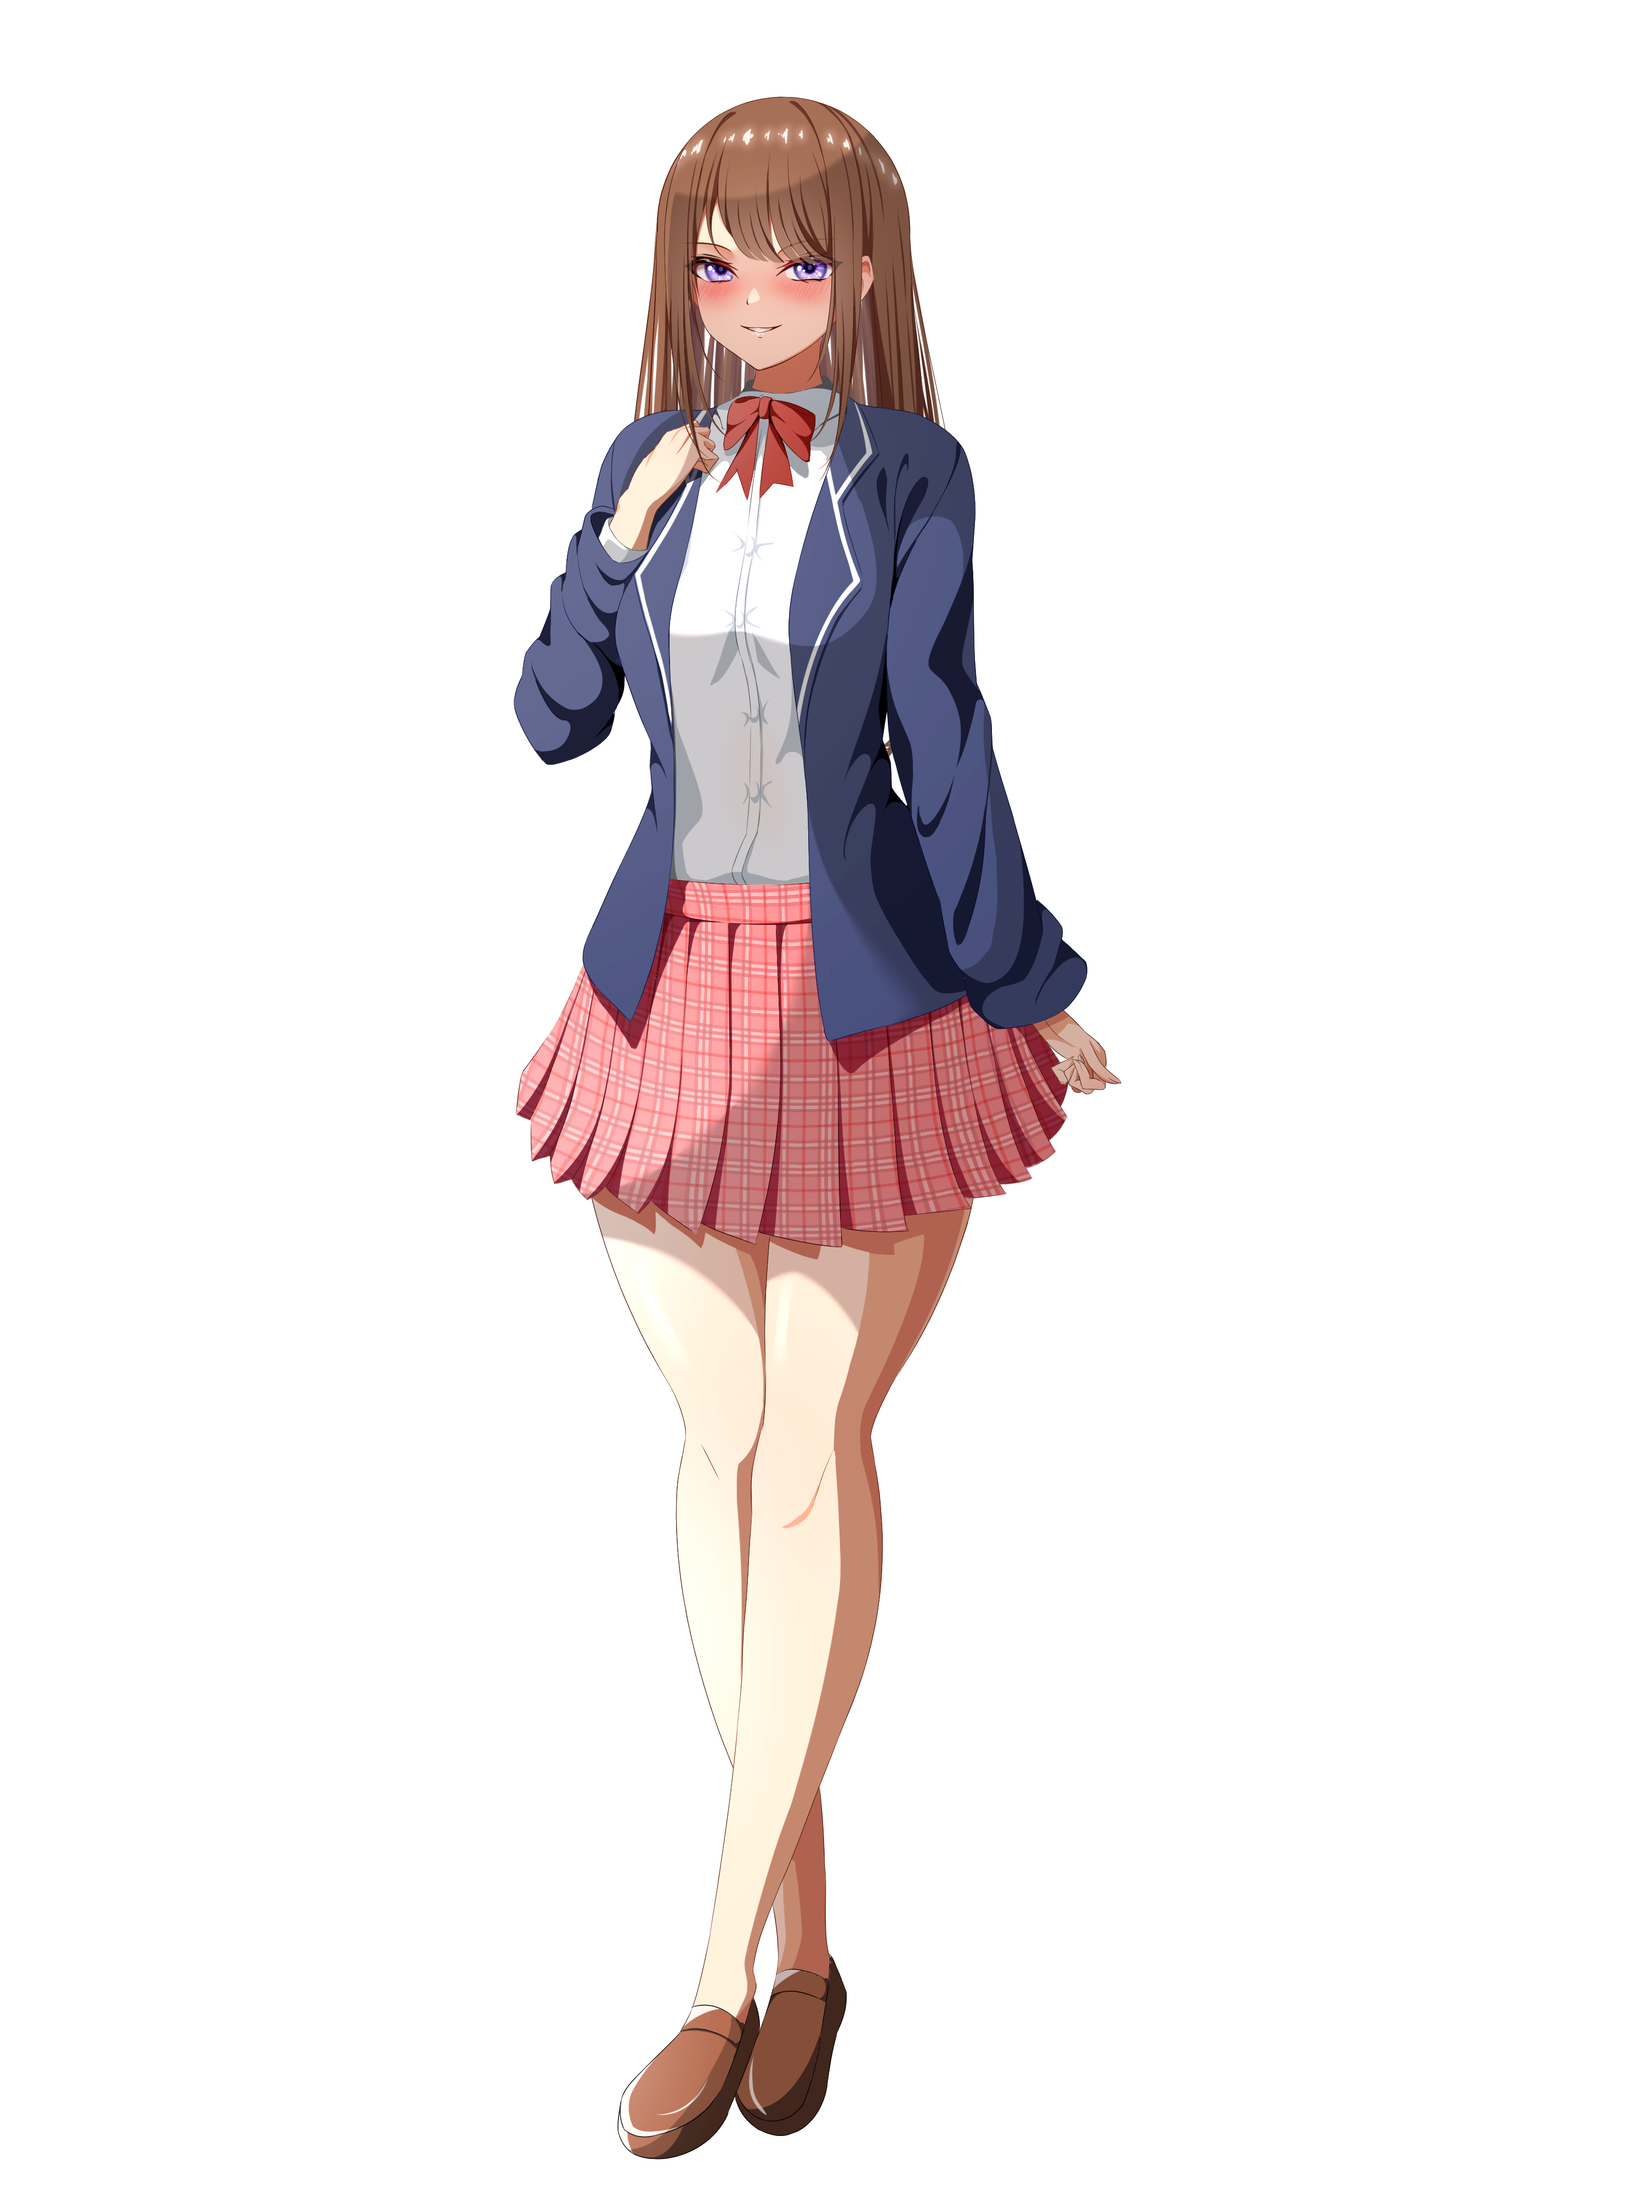
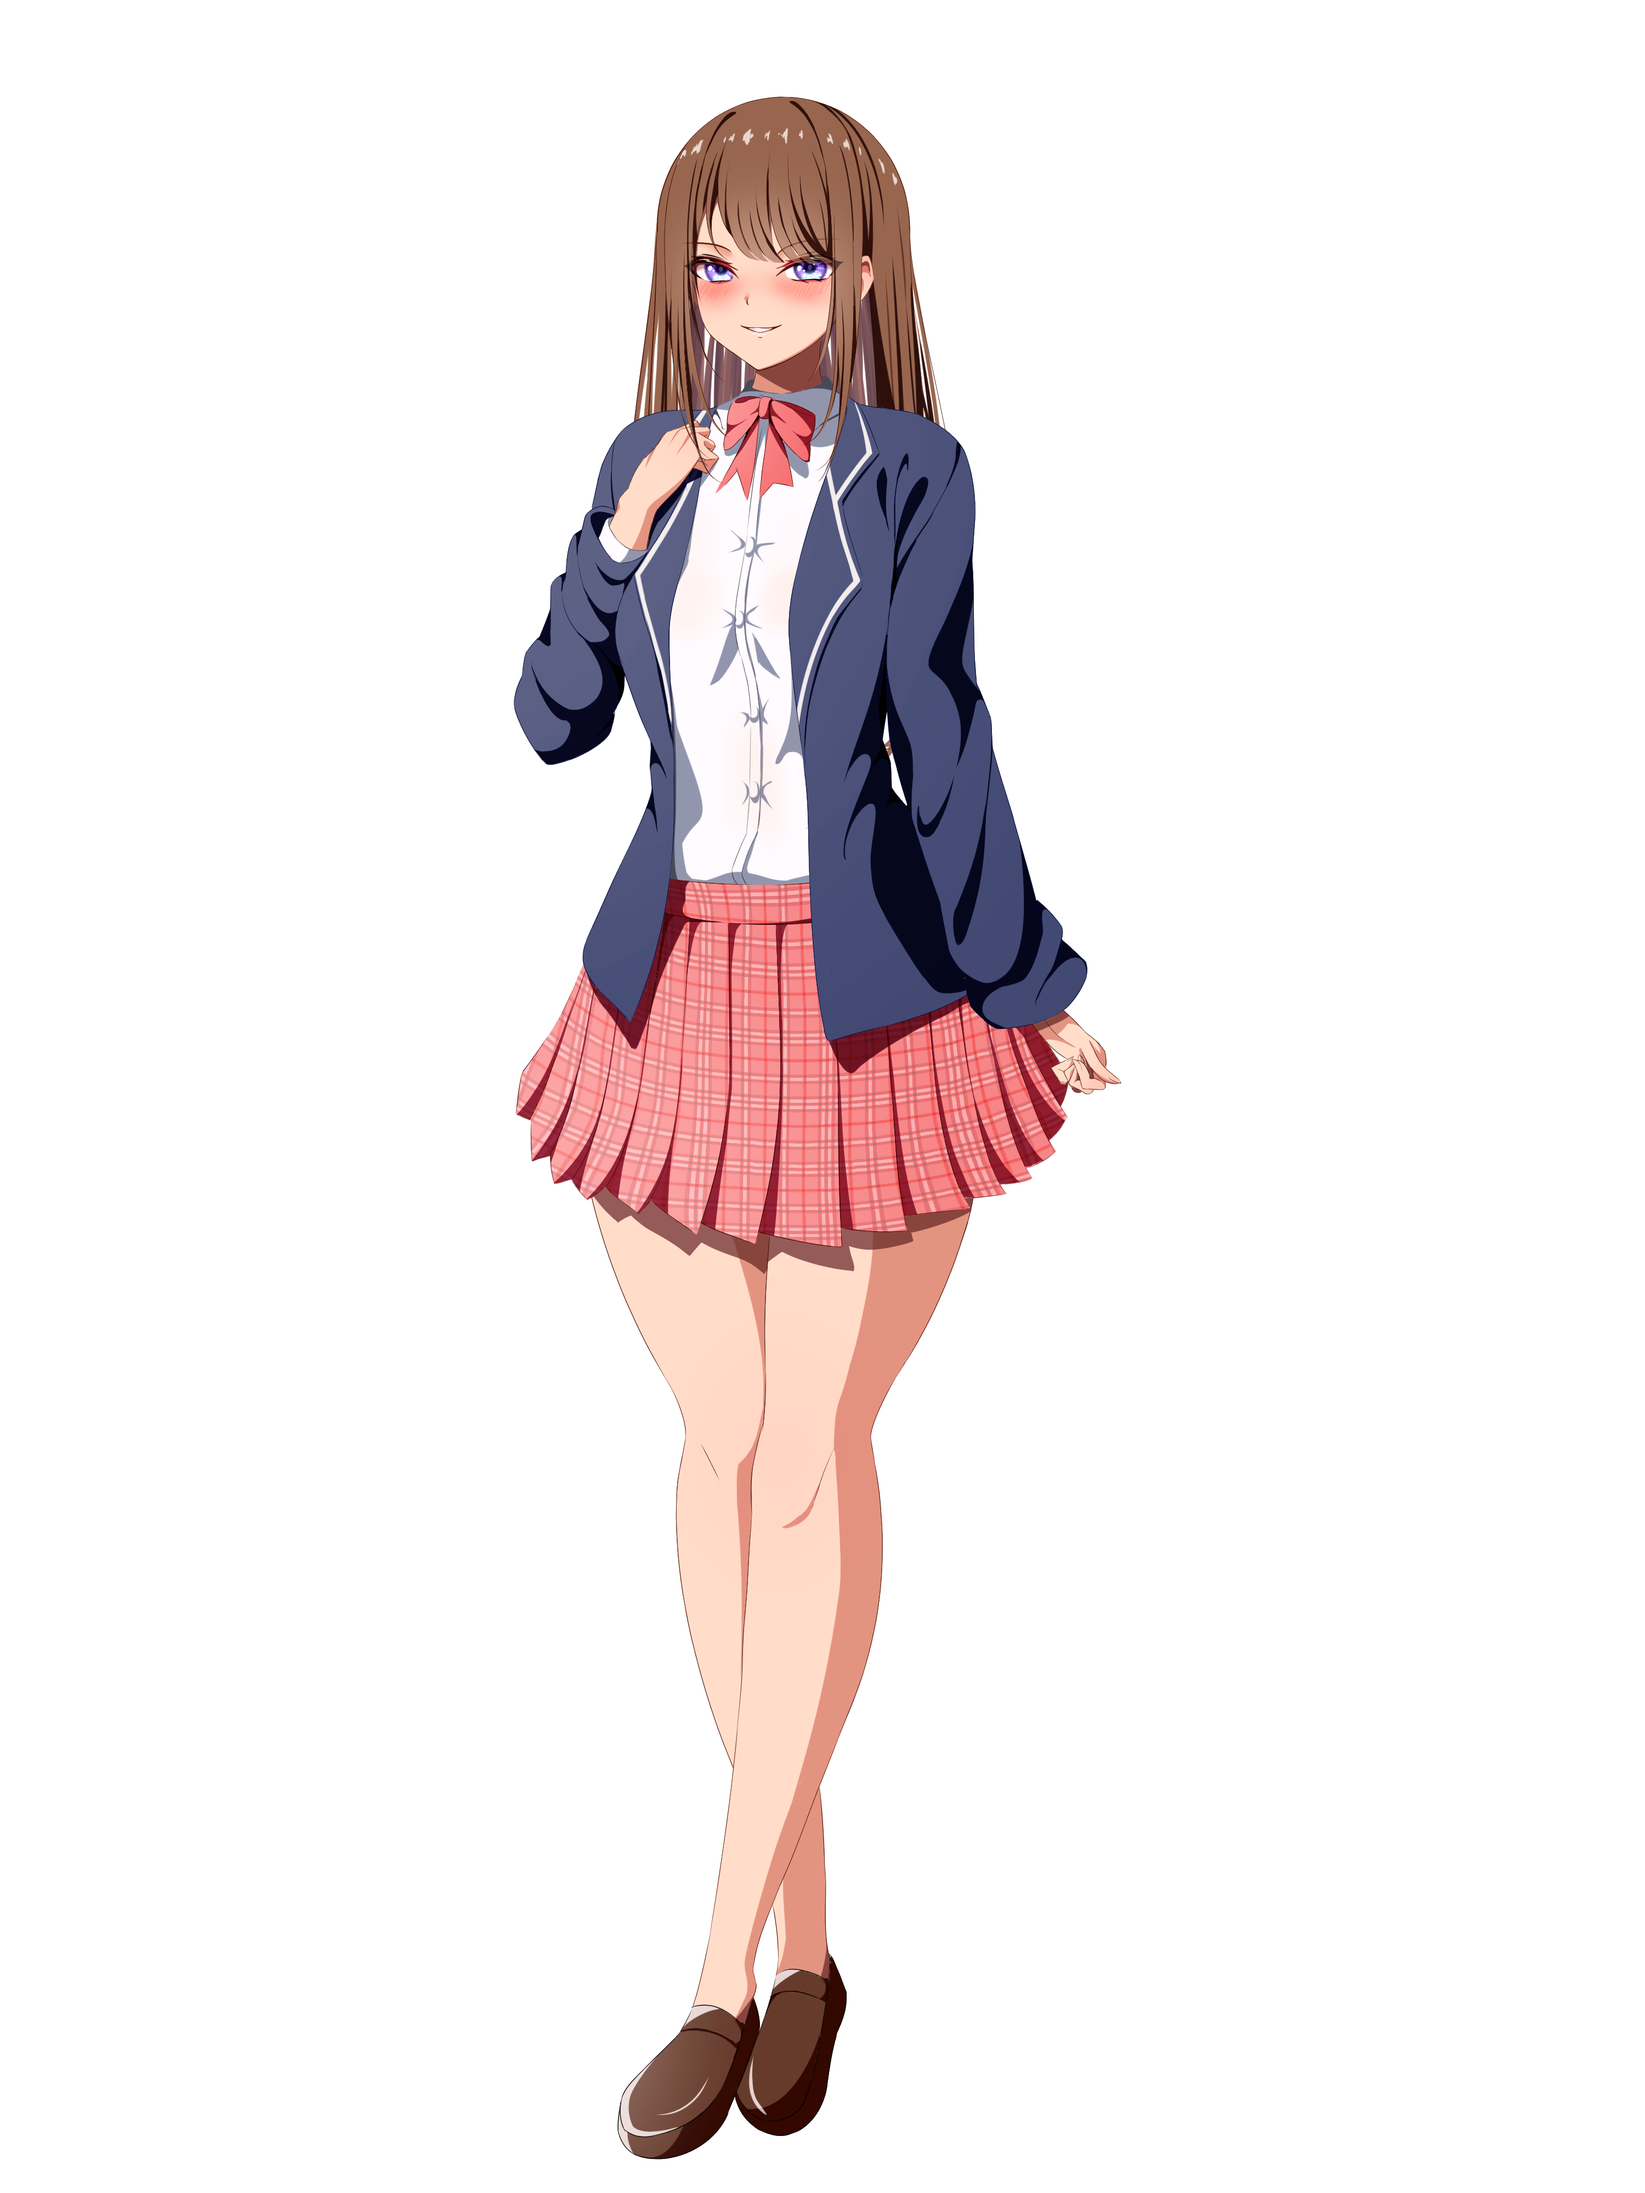
ビジュアル更新

diff --git a/src/components/manager.tsx b/src/components/manager.tsx
@@ -7,6 +7,8 @@ import Dialogue from "../components/dialogue";
 import chara1_normal from '/public/chara/chara1-normal.png';
 import chara1_evilsmile from '/public/chara/chara1-evilsmile.png';
 import chara1_smile from '/public/chara/chara1-smile.png';
+import chara1_surprised from '/public/chara/chara1-surprised.png';
+import chara1_sad from '/public/chara/chara1-sad.png';
 
 import chara2_normal from '/public/chara/chara2-normal.png';
 
@@ -50,8 +52,8 @@ class Manager {
             // 選択肢1の分岐先
             [
                 new Dialogue("「4時間14分勉強したよ」", name, [chara1_normal], -1, class_day),
-                new Dialogue("「え、そんなに勉強したの！？」", "アナ", [chara1_normal], 0, class_day),
-                new Dialogue("「このままじゃ置いてかれちゃう、、、」", "アナ", [chara1_normal], 0, class_day),
+                new Dialogue("「え、そんなに勉強したの！？」", "アナ", [chara1_surprised], 0, class_day),
+                new Dialogue("「このままじゃ置いてかれちゃう、、、」", "アナ", [chara1_sad], 0, class_day),
                 new Dialogue("「ねえ、この後わからないとこあったら聞いてもいい？」", "アナ", [chara1_normal], 0, class_day),
                 new Dialogue("「おう、お安いご用さ！」", name, [chara1_normal], -1, class_day),
             ],
@@ -69,8 +71,8 @@ class Manager {
             // 選択肢3の分岐先
             [
                 new Dialogue("「趣味に没頭してて、勉強してないな、、」", name, [chara1_normal], -1, class_day),
-                new Dialogue("「"+name+"は音楽のミックスにはまってるんだっけ？」", "アナ", [chara1_normal], 0, class_day),
-                new Dialogue("「趣味に没頭するのはいいことだと思うけど、そろそろ勉強しはじめた方がいいんじゃない？」", "アナ", [chara1_normal], 0, class_day),
+                new Dialogue("「"+name+"は音楽のミックスにはまってるんだっけ？」", "アナ", [chara1_surprised], 0, class_day),
+                new Dialogue("「趣味に没頭するのはいいことだと思うけど、そろそろ勉強しはじめた方がいいんじゃない？」", "アナ", [chara1_sad], 0, class_day),
                 new Dialogue("「そうだな。ちょうど1週間前だしちょうどいい機会か。」", name, [chara1_normal], -1, class_day),
                 new Dialogue("「せっかくだし一緒に勉強しないか？」", name, [chara1_normal], -1, class_day),
                 new Dialogue("「うん！もちろんいいよ！」", "アナ", [chara1_smile], 0, class_day),
